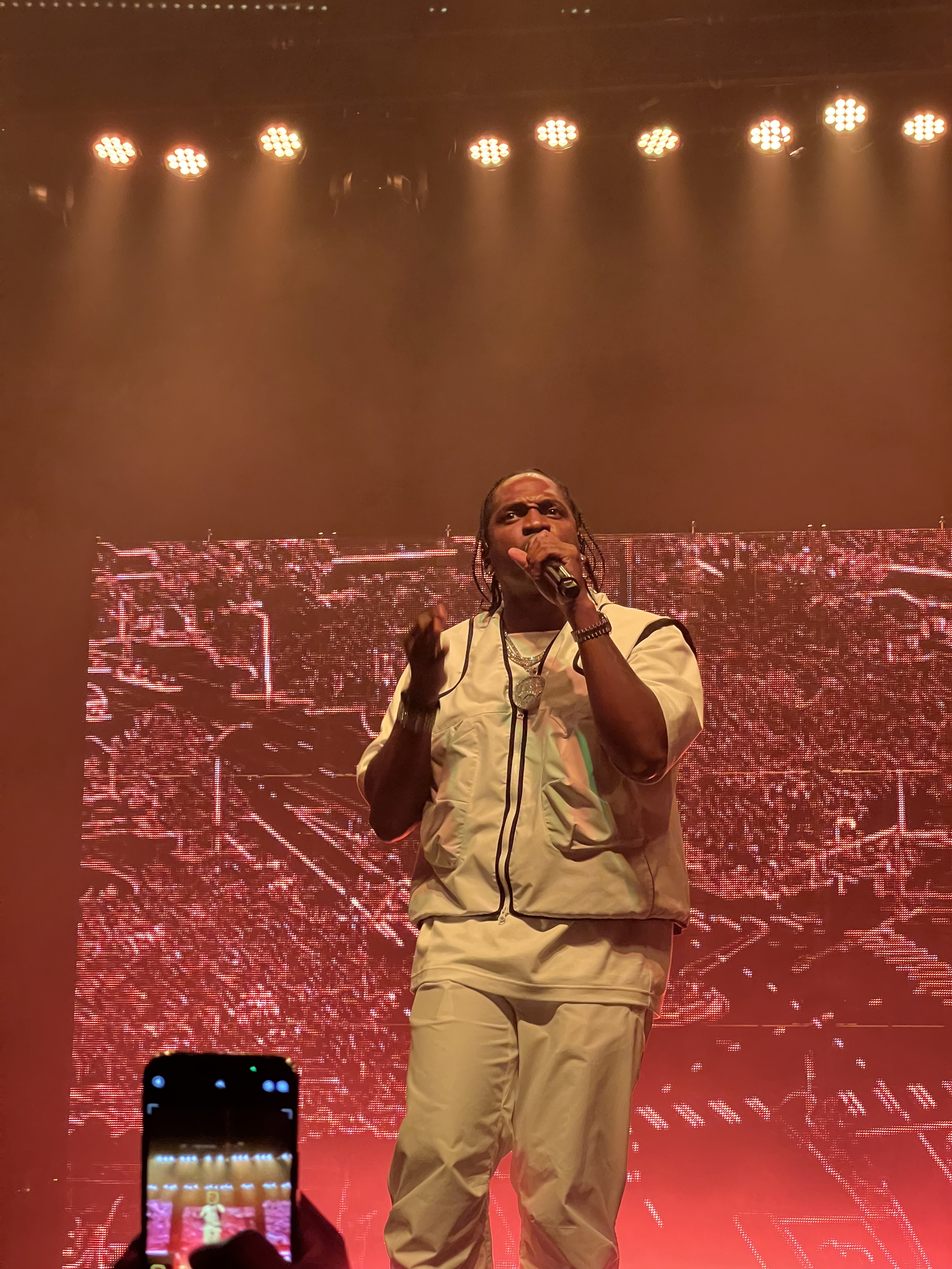
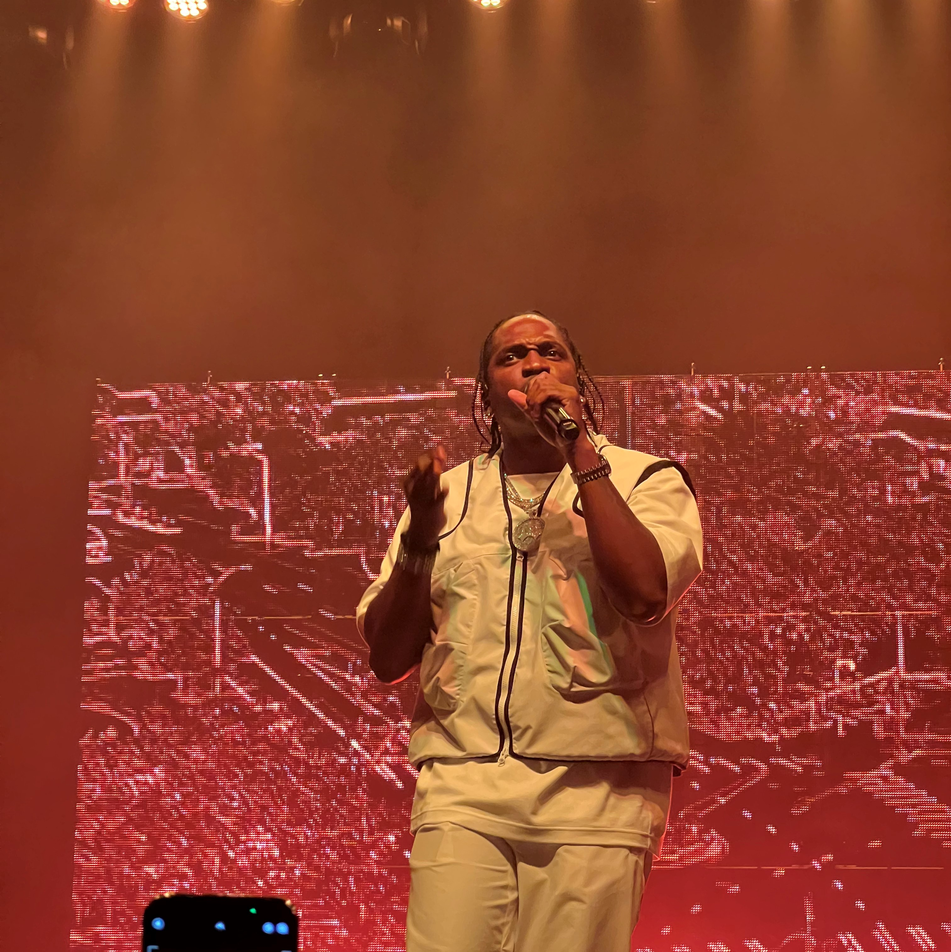
Cropped images for thumbnails

diff --git a/src/events.js b/src/events.js
@@ -148,7 +148,7 @@ const musicEvents = [
         name: 'Turnstile',
         date: 'November 14th, 2022',
         venue: 'Coca-Cola Roxy',
-        thumbnail: require('./images/kendricklamar/kendrickthumbnail.jpg'),
+        thumbnail: require('./images/turnstile/turnstilethumbnail.jpg'),
         path: 'kidcudi',
         description: `After 5 long years, Kendrick Lamar finally dropped his long awaited album. When he announced his tour, two of my friends and I paid resell prices for floor seats. This concert was breathtaking. Kendrick performed for nearly 2 and a half hours, which is the longest I've ever seen anyone perform. His performance reflected the main theme of his album, self-reflection. A therapist narrated the entire show, as if Kendrick was in therapy himself. He played songs from Good Kid Maad City all the way up to Mr. Morale. His cousin, Baby Keem, opened for him, and later came out on stage for their hit song Family Ties. Kendrick's show had many different props and stage setups. Dolls, Pianos, Floating Panels, Plastic quarantine cubes that rise up into the air and are held up by mirrors. This show had it all. It was a great performance, coming from one who is known as the best artist of my generation. Not to mention, the dancers for the stage had great choreography. I'm excited to see Kendrick again one day sometime in the near future of 2032!`,
         openers: ['Strick', '070 Shake'],
@@ -159,7 +159,7 @@ const musicEvents = [
         name: 'JID & Smino', 
         date: 'February 19th, 2023', 
         venue: 'Coca-Cola Roxy',
-        thumbnail: require('./images/kendricklamar/kendrickthumbnail.jpg'),
+        thumbnail: require('./images/jidsmino/jidsminothumbnail.jpg'),
         path: 'kidcudi',
         description: `After 5 long years, Kendrick Lamar finally dropped his long awaited album. When he announced his tour, two of my friends and I paid resell prices for floor seats. This concert was breathtaking. Kendrick performed for nearly 2 and a half hours, which is the longest I've ever seen anyone perform. His performance reflected the main theme of his album, self-reflection. A therapist narrated the entire show, as if Kendrick was in therapy himself. He played songs from Good Kid Maad City all the way up to Mr. Morale. His cousin, Baby Keem, opened for him, and later came out on stage for their hit song Family Ties. Kendrick's show had many different props and stage setups. Dolls, Pianos, Floating Panels, Plastic quarantine cubes that rise up into the air and are held up by mirrors. This show had it all. It was a great performance, coming from one who is known as the best artist of my generation. Not to mention, the dancers for the stage had great choreography. I'm excited to see Kendrick again one day sometime in the near future of 2032!`,
         openers: ['Strick', '070 Shake'],
